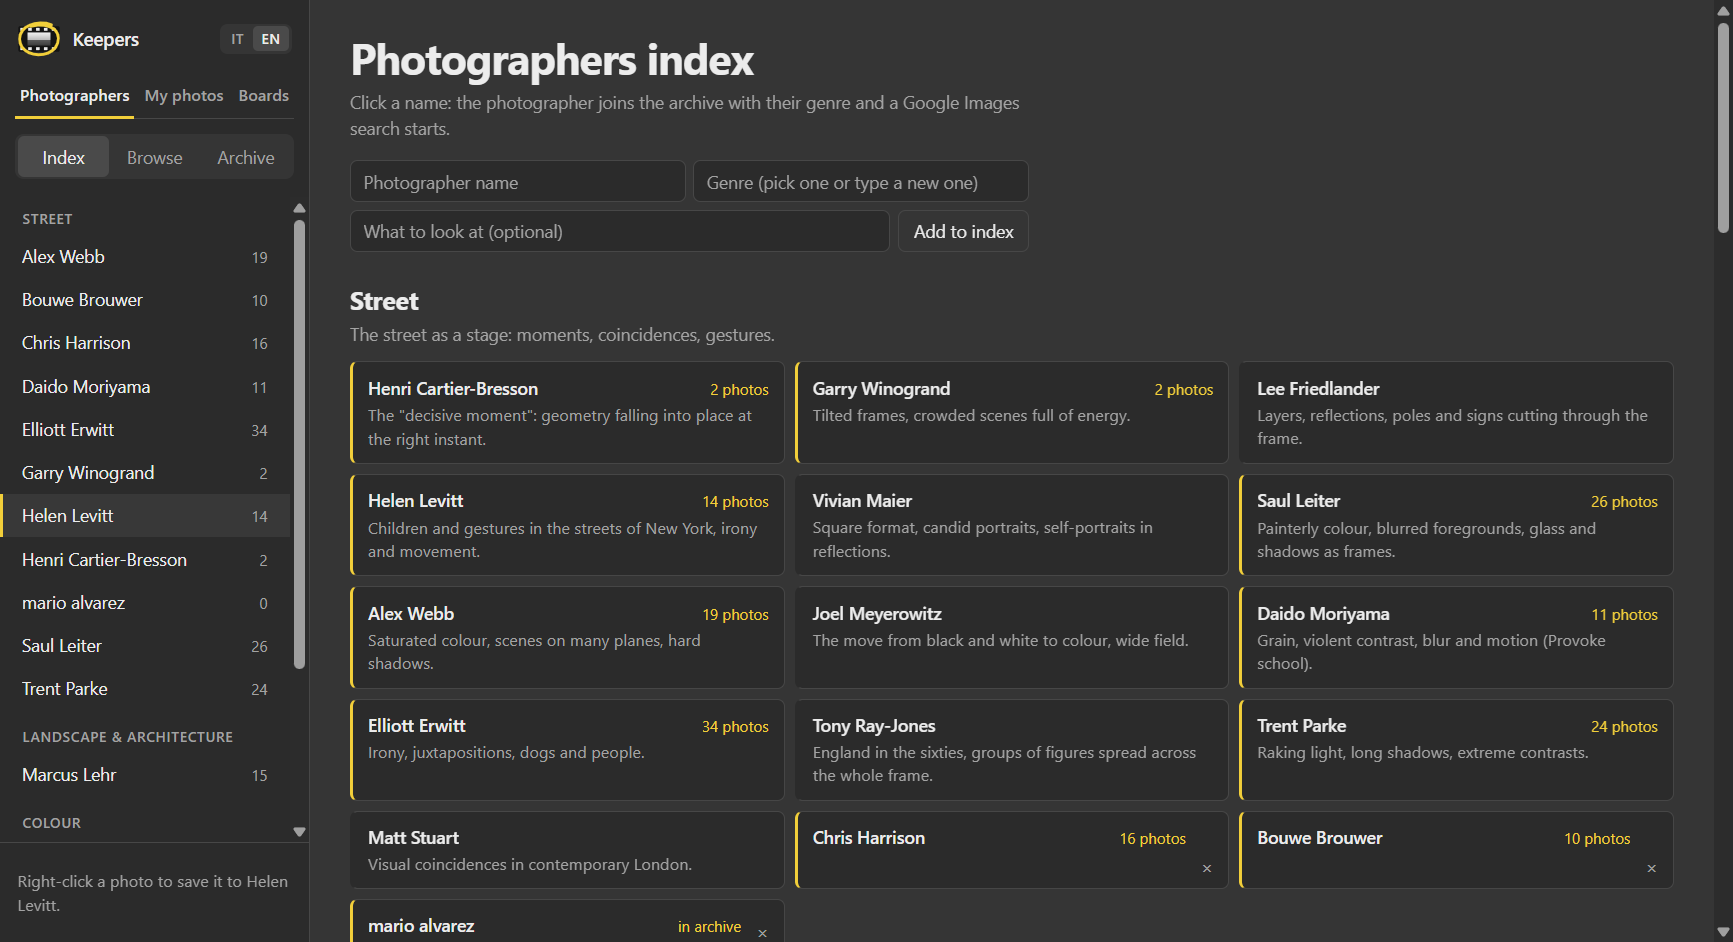
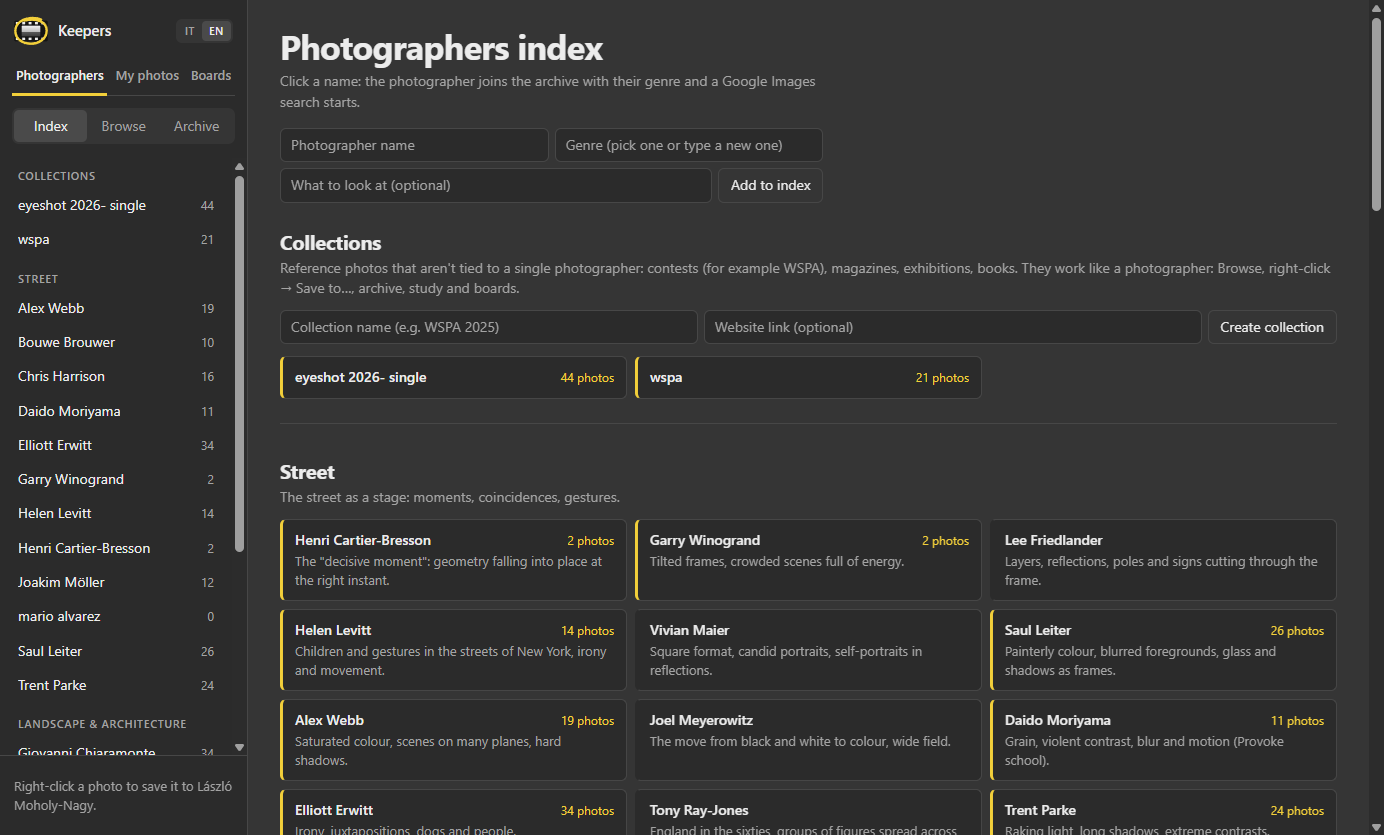
Documentazione 0.7.1: zoom, raccolte, Vari, menu dei tavoli

diff --git a/README.md b/README.md
@@ -30,11 +30,13 @@ Requisiti: Windows 10 o 11 a 64 bit. Per aggiornare, scarica il nuovo installer 
 
 ### 1. Autori: il tuo archivio dei maestri
 
-**Indice.** È un elenco di fotografi divisi per genere (Street, Umanista, Documentario e reportage, Ritratto, Colore…), ciascuno con una nota su cosa guardare nel suo lavoro.
+**Indice.** È un elenco di fotografi divisi per genere (Street, Umanista, Documentario e reportage, Ritratto, Colore…), ciascuno con una nota su cosa guardare nel suo lavoro. Per chi attraversa più generi c'è **Vari**.
 - Un clic su un nome aggiunge l'autore al tuo archivio e apre subito la ricerca su Google Immagini.
 - Per un autore che non c'è, compila il modulo **Aggiungi all'indice**: nome, genere (scegline uno o scrivine uno nuovo) ed eventualmente una nota.
 
 ![L'indice degli autori, diviso per genere](docs/it-indice.png)
+
+**Raccolte.** In cima all'Indice puoi creare raccolte di foto di autori diversi: un concorso (per esempio il WSPA), una rivista, una mostra, un libro. Scrivi il nome ed eventualmente il link del sito, poi **Crea raccolta**. Una raccolta funziona come un autore: la trovi in cima alla colonna sinistra e ci salvi le foto con il tasto destro.
 
 **Naviga.** È un browser dentro l'app. Usalo come un browser qualsiasi: Google Immagini, il sito del fotografo, Instagram, articoli, archivi Magnum…
 - Quando trovi una foto che ti interessa, fai **tasto destro → Salva in &lt;autore&gt;**. Il tasto destro funziona anche su Instagram, dove le foto sono coperte da livelli trasparenti, e l'app sceglie la versione più grande disponibile.
@@ -69,6 +71,7 @@ Requisiti: Windows 10 o 11 a 64 bit. Per aggiornare, scarica il nuovo installer 
 Un tavolo è una superficie infinita su cui disporre foto: le tue, quelle dei maestri, o entrambe. Serve a provare sequenze, coppie e dittici.
 - **Aggiungi foto** apre il cassetto: trascina le foto sul tavolo. Il cassetto mostra solo quelle non ancora usate.
 - Trascina per spostare, usa l'angolo in basso a destra per ridimensionare e la rotellina per lo zoom. Il doppio clic apre la foto a tutto schermo.
+- Dalla foto a tutto schermo, **Aggiungi al tavolo** ti chiede su quale tavolo metterla (o ne crea uno nuovo) e conferma con un messaggio. Una foto già presente non si duplica.
 - **R** porta tutte le foto alla misura di quella selezionata, **Ctrl+O** / **Ctrl+V** le allineano in riga o in colonna e **Ctrl+Z** annulla. Il pulsante **?** mostra tutte le scorciatoie.
 - **Tutta finestra** dà al tavolo tutto lo schermo.
 - **Esporta…** crea una cartella con la composizione in JPEG, le singole foto in ordine di lettura e un elenco con la provenienza di ciascuna.
@@ -91,6 +94,7 @@ Nella visione a tutto schermo c'è la barra **Studio**. Gli strumenti non impong
 | Francobollo | F | La foto piccolissima: regge ancora? |
 | Griglia | G | Terzi, sezione aurea, diagonali (armatura del rettangolo), centro |
 | Linee | L | Tracci a mano linee guida e direzioni (Maiusc per il tratto libero); vengono salvate |
+| Zoom | + − 0 | Rotellina per ingrandire attorno al puntatore, trascina per spostarti, doppio clic per il 100%; griglia e linee seguono |
 
 Il pulsante **?** (oppure H) apre una guida su come e quando usare ogni strumento.
 

diff --git a/README.en.md b/README.en.md
@@ -30,11 +30,13 @@ Requirements: 64-bit Windows 10 or 11. To update, download the new installer and
 
 ### 1. Photographers: your archive of the masters
 
-**Index.** A list of photographers grouped by genre (Street, Humanist, Documentary & reportage, Portrait, Colour…), each with a note on what to look at in their work.
+**Index.** A list of photographers grouped by genre (Street, Humanist, Documentary & reportage, Portrait, Colour…), each with a note on what to look at in their work. For photographers who cross several genres there's **Various**.
 - Click a name to add the photographer to your archive and immediately open a Google Images search.
 - For someone who isn't listed, fill in the **Add to index** form: a name, a genre (pick one or type a new one) and an optional note.
 
 ![The photographers index, grouped by genre](docs/en-indice.png)
+
+**Collections.** At the top of the Index you can create collections of photos by different photographers: a contest (for example WSPA), a magazine, an exhibition, a book. Type the name and, if you like, the website link, then **Create collection**. A collection works like a photographer: you find it at the top of the left column and save photos into it with right-click.
 
 **Browse.** A browser inside the app. Use it like any browser: Google Images, the photographer's site, Instagram, articles, the Magnum archive…
 - When you find a picture you like, use **right-click → Save to &lt;photographer&gt;**. Right-click also works on Instagram, where photos are covered by transparent layers, and Keepers picks the largest version available.
@@ -69,6 +71,7 @@ Requirements: 64-bit Windows 10 or 11. To update, download the new installer and
 A board is an infinite surface where you lay out photos: your own, the masters', or both. Use it to try sequences, pairs and diptychs.
 - **Add photos** opens the drawer: drag photos onto the board. The drawer only shows photos that aren't on the board yet.
 - Drag a photo to move it, use its bottom-right corner to resize it and the mouse wheel to zoom. Double-click a photo to see it full screen.
+- From the full-screen view, **Add to board** asks which board to put the photo on (or creates a new one) and confirms with a message. A photo that's already there isn't added twice.
 - **R** makes every photo the size of the selected one, **Ctrl+O** / **Ctrl+V** line them up in a row or a column, and **Ctrl+Z** undoes. The **?** button lists all the shortcuts.
 - **Full window** gives the board the whole screen.
 - **Export…** creates a folder with the composition as a JPEG, the individual photos in reading order and a list of where each one came from.
@@ -91,6 +94,7 @@ In the full-screen view there's a **Study** bar. The tools don't impose rules: t
 | Stamp | F | The photo shown tiny: does it still hold up? |
 | Grid | G | Thirds, golden section, diagonals (rectangle armature), centre |
 | Lines | L | Draw guide lines and directions by hand (hold Shift for freehand); they're saved |
+| Zoom | + − 0 | Mouse wheel to zoom around the pointer, drag to move, double-click for 100%; grid and lines follow |
 
 The **?** button (or H) opens a guide on how and when to use each tool.
 
